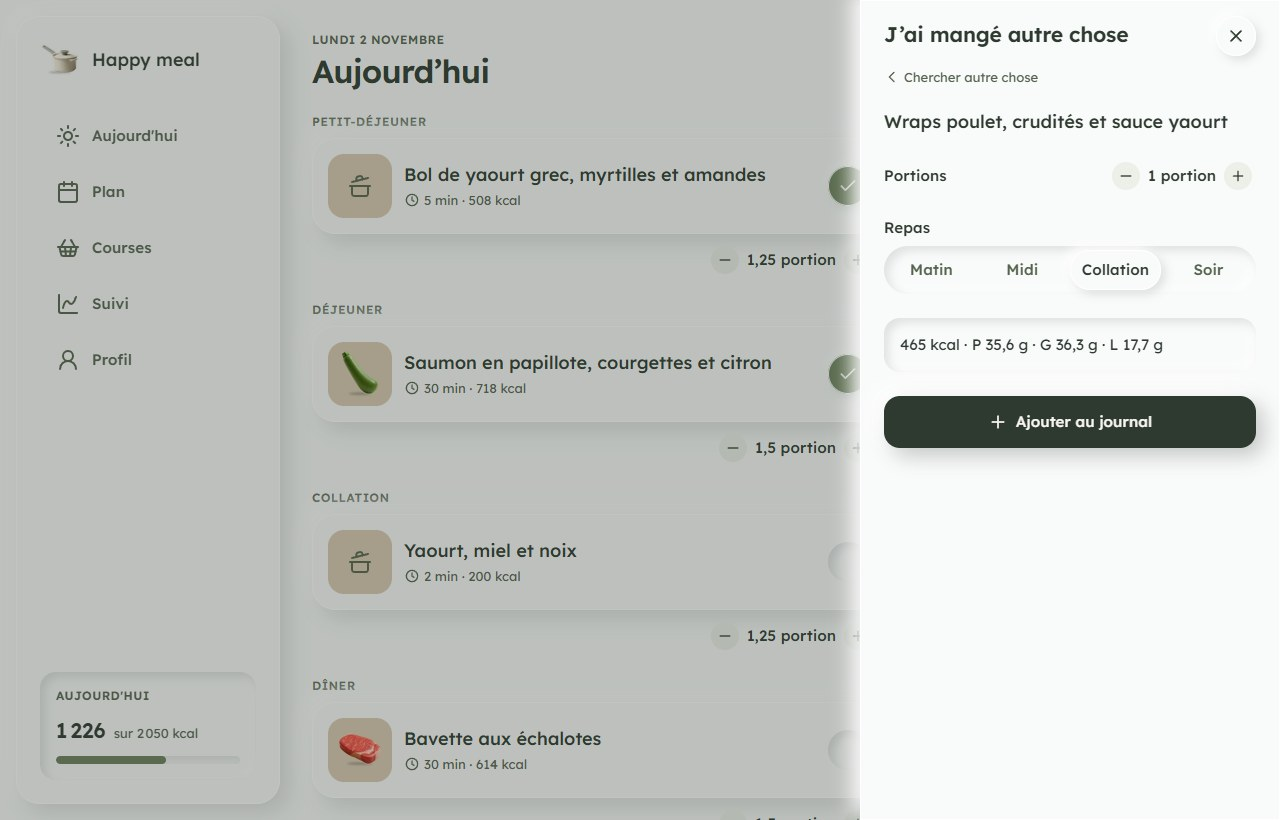
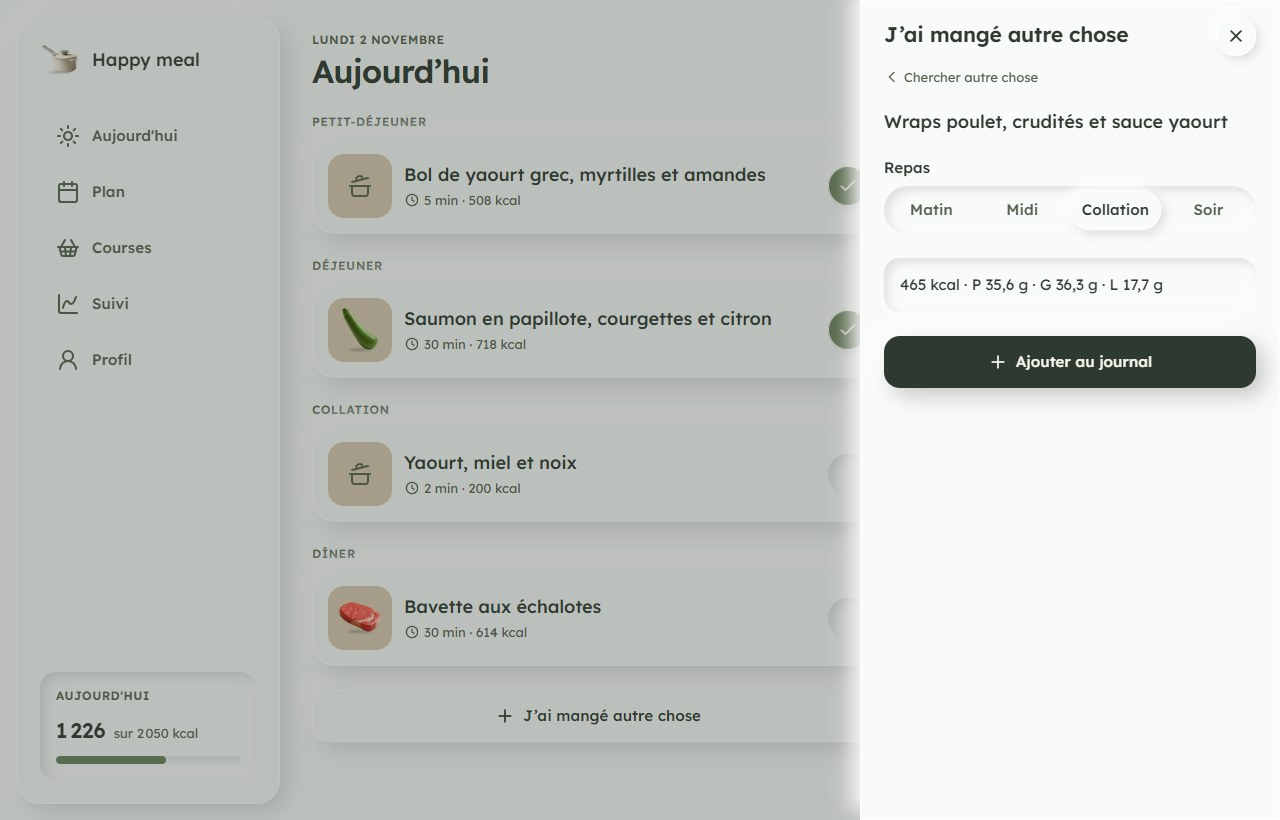
Correctif UX : plus aucune notion de portion dans l'interface
Le plan dimensionne déjà chaque plat pour la personne : elle cuisine un seul
plat, tel que prévu, et coche simplement qu'elle l'a mangé.

- Aujourd'hui : plus de stepper de portion, seulement « mangé » ; les kcal
  affichées sont celles du plat prévu
- Plan, swap : plus de « 1,25 portion » ; les quantités sont ajustées en interne
  (le total du jour reste à la cible)
- Ajout rapide : une recette s'ajoute telle quelle, les aliments restent en grammes
- Code mort retiré (setPlanMealPortions, formatPortions)

diff --git a/src/features/today/QuickAddPanel.tsx b/src/features/today/QuickAddPanel.tsx
@@ -2,7 +2,6 @@ import { useMemo, useState } from 'react'
 import { Button } from '../../components/Button'
 import { Chip } from '../../components/Chip'
 import { Icon } from '../../components/Icon'
-import { QuantityStepper } from '../../components/QuantityStepper'
 import { SearchField } from '../../components/SearchField'
 import { SegmentedControl } from '../../components/SegmentedControl'
 import { SidePanel } from '../../components/SidePanel'
@@ -14,7 +13,7 @@ import { defaultSlot, foodEntryNutrients, recipeEntryNutrients } from '../../dom
 import { normalize } from '../../domain/text'
 import type { IsoDate, MealSlot, Nutrients } from '../../domain/types'
 import { formatDecimal, formatInt } from '../format'
-import { SLOT_SHORT_LABELS, formatPortions } from '../plan/labels'
+import { SLOT_SHORT_LABELS } from '../plan/labels'
 
 type Picked = { kind: 'food'; food: IndexedFood } | { kind: 'recipe'; recipe: IndexedRecipe }
 
@@ -39,7 +38,6 @@ export function QuickAddPanel({ data, date, onAdd, onClose }: QuickAddPanelProps
   const [picked, setPicked] = useState<Picked | null>(null)
   const [slot, setSlot] = useState<MealSlot>(() => defaultSlot(new Date().getHours()))
   const [grams, setGrams] = useState('100')
-  const [portions, setPortions] = useState(1)
 
   const results = useMemo(() => {
     const key = normalize(query).trim()
@@ -50,7 +48,7 @@ export function QuickAddPanel({ data, date, onAdd, onClose }: QuickAddPanelProps
     }
   }, [data, query])
 
-  const quantity = picked?.kind === 'food' ? Number(grams.replace(',', '.')) : portions
+  const quantity = picked?.kind === 'food' ? Number(grams.replace(',', '.')) : 1
   const valid = Number.isFinite(quantity) && quantity > 0
   let nutrients: Nutrients | null = null
   if (picked && valid) {
@@ -63,7 +61,6 @@ export function QuickAddPanel({ data, date, onAdd, onClose }: QuickAddPanelProps
   function pick(next: Picked) {
     setPicked(next)
     setGrams('100')
-    setPortions(1)
   }
 
   function add() {
@@ -99,7 +96,7 @@ export function QuickAddPanel({ data, date, onAdd, onClose }: QuickAddPanelProps
               <li key={recipe.id}>
                 <ResultRow
                   title={recipe.title}
-                  detail={`Recette · ${formatInt(recipe.nutrition.kcal)} kcal par portion`}
+                  detail={`Recette · ${formatInt(recipe.nutrition.kcal)} kcal`}
                   onClick={() => pick({ kind: 'recipe', recipe })}
                 />
               </li>
@@ -148,20 +145,7 @@ export function QuickAddPanel({ data, date, onAdd, onClose }: QuickAddPanelProps
                 ))}
               </div>
             </div>
-          ) : (
-            <div className="flex items-center justify-between gap-03">
-              <span className="text-label text-text">Portions</span>
-              <QuantityStepper
-                label="Portions"
-                value={portions}
-                min={0.25}
-                max={6}
-                step={0.25}
-                format={formatPortions}
-                onChange={setPortions}
-              />
-            </div>
-          )}
+          ) : null}
 
           <div className="flex flex-col gap-02">
             <span className="text-label text-text">Repas</span>

diff --git a/src/features/today/MealItem.tsx b/src/features/today/MealItem.tsx
@@ -1,30 +1,28 @@
 import { cn } from '../../components/cn'
 import { Icon } from '../../components/Icon'
-import { QuantityStepper } from '../../components/QuantityStepper'
 import { RecipeCard } from '../../components/RecipeCard'
 import type { IndexedRecipe } from '../../data/reference'
-import { formatInt } from '../format'
-import { SLOT_LABELS, formatPortions } from '../plan/labels'
-import { mealKcal, recipeClay } from '../plan/view'
 import type { MealSlot } from '../../domain/types'
+import { SLOT_LABELS } from '../plan/labels'
+import { mealMeta, recipeClay } from '../plan/view'
 
 export type MealItemProps = {
   slot: MealSlot
   recipe: IndexedRecipe
+  /** Scale of the recipe planned for the person (only used for the kcal shown). */
   portions: number
   eaten: boolean
   onEaten: (eaten: boolean) => void
-  onPortions: (portions: number) => void
 }
 
-/** A meal of today's plan: tick it as eaten, adjust the portion. */
-export function MealItem({ slot, recipe, portions, eaten, onEaten, onPortions }: MealItemProps) {
+/** A meal of today's plan: one dish to cook as planned, ticked once eaten. */
+export function MealItem({ slot, recipe, portions, eaten, onEaten }: MealItemProps) {
   return (
     <li className="flex flex-col gap-02">
       <p className="text-overline-caps text-text-muted">{SLOT_LABELS[slot]}</p>
       <RecipeCard
         title={recipe.title}
-        meta={`${recipe.minutes} min · ${formatInt(mealKcal(recipe, portions))} kcal`}
+        meta={mealMeta(recipe, portions)}
         clay={recipeClay(recipe)}
         action={
           <button
@@ -42,17 +40,6 @@ export function MealItem({ slot, recipe, portions, eaten, onEaten, onPortions }:
           </button>
         }
       />
-      <div className="flex justify-end px-02">
-        <QuantityStepper
-          label={`Portion : ${recipe.title}`}
-          value={portions}
-          min={0.5}
-          max={3}
-          step={0.25}
-          format={formatPortions}
-          onChange={onPortions}
-        />
-      </div>
     </li>
   )
 }

diff --git a/src/features/plan/planRecipes.test.ts b/src/features/plan/planRecipes.test.ts
@@ -5,7 +5,7 @@ import { buildReferenceData } from '../../data/reference'
 import type { FoodsFile, RecipesFile } from '../../data/schemas'
 import { dayKcal, generatePlan, NO_REPEAT_DAYS, swapCandidates, applySwap } from '../../domain/plan'
 import { availableSuggestions, ingredientLabels, toPlanRecipes } from './planRecipes'
-import { formatPortions, formatRange } from './labels'
+import { formatRange } from './labels'
 
 const read = <T>(file: string) => JSON.parse(readFileSync(join(process.cwd(), 'public', 'data', file), 'utf8')) as T
 const data = buildReferenceData(read<FoodsFile>('aliments.json'), read<RecipesFile>('recettes.json'))
@@ -89,11 +89,8 @@ describe('"Ce que j’ai déjà"', () => {
 })
 
 describe('labels', () => {
-  it('formats a date range and portions in French', () => {
+  it('formats a date range in French', () => {
     expect(formatRange('2026-11-03', 7)).toBe('du 3 au 9 novembre')
     expect(formatRange('2026-10-28', 7)).toBe('du 28 octobre au 3 novembre')
-    expect(formatPortions(1.25)).toBe('1,25 portion')
-    expect(formatPortions(1)).toBe('1 portion')
-    expect(formatPortions(2)).toBe('2 portions')
   })
 })

diff --git a/src/features/plan/view.ts b/src/features/plan/view.ts
@@ -3,7 +3,6 @@ import type { IndexedRecipe } from '../../data/reference'
 import type { PlanMealRow } from '../../data/db'
 import { normalize } from '../../domain/text'
 import { formatInt } from '../format'
-import { formatPortions } from './labels'
 
 const isClayId = (id: string | undefined): id is ClayId => clayIds.includes(id as ClayId)
 
@@ -13,9 +12,9 @@ export const recipeClay = (recipe: IndexedRecipe): ClayId | undefined =>
 
 export const mealKcal = (recipe: IndexedRecipe, portions: number) => recipe.nutrition.kcal * portions
 
-/** "25 min · 520 kcal · 1,25 portion" */
+/** "25 min · 520 kcal": the dish as planned for the person (quantities are already scaled, no "portion" shown). */
 export const mealMeta = (recipe: IndexedRecipe, portions: number) =>
-  `${recipe.minutes} min · ${formatInt(mealKcal(recipe, portions))} kcal · ${formatPortions(portions)}`
+  `${recipe.minutes} min · ${formatInt(mealKcal(recipe, portions))} kcal`
 
 export const mealsOfDay = (meals: readonly PlanMealRow[], day: number) => meals.filter((m) => m.day === day)
 

diff --git a/src/features/today/TodayPage.tsx b/src/features/today/TodayPage.tsx
@@ -8,7 +8,6 @@ import {
   deleteJournalEntry,
   planKey,
   setPlanMealEaten,
-  setPlanMealPortions,
   type JournalEntry,
 } from '../../data/db'
 import { recipeEntryNutrients } from '../../domain/journal'
@@ -89,9 +88,6 @@ export function TodayPage() {
                         value,
                       )
                     }
-                    onPortions={(portions) =>
-                      setPlanMealPortions(meal, portions, recipeEntryNutrients(recipe.nutrition, portions))
-                    }
                   />
                 )
               })}
@@ -146,7 +142,7 @@ export function TodayPage() {
 }
 
 const quantityLabel = (entry: JournalEntry) =>
-  entry.kind === 'food' ? `${formatInt(entry.quantity)} g` : `${entry.quantity} portion`
+  entry.kind === 'food' ? `${formatInt(entry.quantity)} g` : 'Recette'
 
 type NoMealsProps = { hasPlan: boolean; hasDraft: boolean; onPlan: () => void }
 

diff --git a/src/data/db.ts b/src/data/db.ts
@@ -155,21 +155,6 @@ export async function setPlanMealEaten(entry: JournalEntry & { planKey: string }
   })
 }
 
-/** Changes the portions of a planned meal; keeps its journal entry in step when it is already eaten. */
-export async function setPlanMealPortions(
-  meal: PlanMealRow,
-  portions: number,
-  eatenNutrients: Nutrients,
-): Promise<void> {
-  await db.transaction('rw', db.planMeals, db.journal, async () => {
-    await db.planMeals.update([meal.planId, meal.day, meal.index], { portions })
-    await db.journal
-      .where('planKey')
-      .equals(planKey(meal.planId, meal.day, meal.index))
-      .modify({ quantity: portions, nutrients: eatenNutrients })
-  })
-}
-
 export async function addJournalEntry(entry: JournalEntry): Promise<void> {
   await db.journal.add(entry)
 }

diff --git a/src/features/plan/SwapPanel.tsx b/src/features/plan/SwapPanel.tsx
@@ -58,7 +58,7 @@ export function SwapPanel({ state, day, index, onPick, onClose }: SwapPanelProps
           Autres idées
         </h3>
         <p className="text-body-sm text-text-muted">
-          Des repas aux calories proches. La portion s’ajuste pour que ta journée reste équilibrée.
+          Des repas aux calories proches. Les quantités s’ajustent pour que ta journée reste équilibrée.
         </p>
         {candidates.length === 0 ? (
           <p className="rounded-02 bg-surface p-04 text-body text-text-muted shadow-pressed">

diff --git a/src/features/plan/labels.ts b/src/features/plan/labels.ts
@@ -34,8 +34,3 @@ export function formatRange(start: IsoDate, days: number): string {
   const sameMonth = first.getUTCMonth() === last.getUTCMonth()
   return `du ${sameMonth ? first.getUTCDate() : dayMonth.format(first)} au ${dayMonth.format(last)}`
 }
-
-/** "1,25 portion" / "1 portion": French uses the singular below 2. */
-export function formatPortions(portions: number): string {
-  return `${new Intl.NumberFormat('fr-FR', { maximumFractionDigits: 2 }).format(portions)} portion${portions >= 2 ? 's' : ''}`
-}
